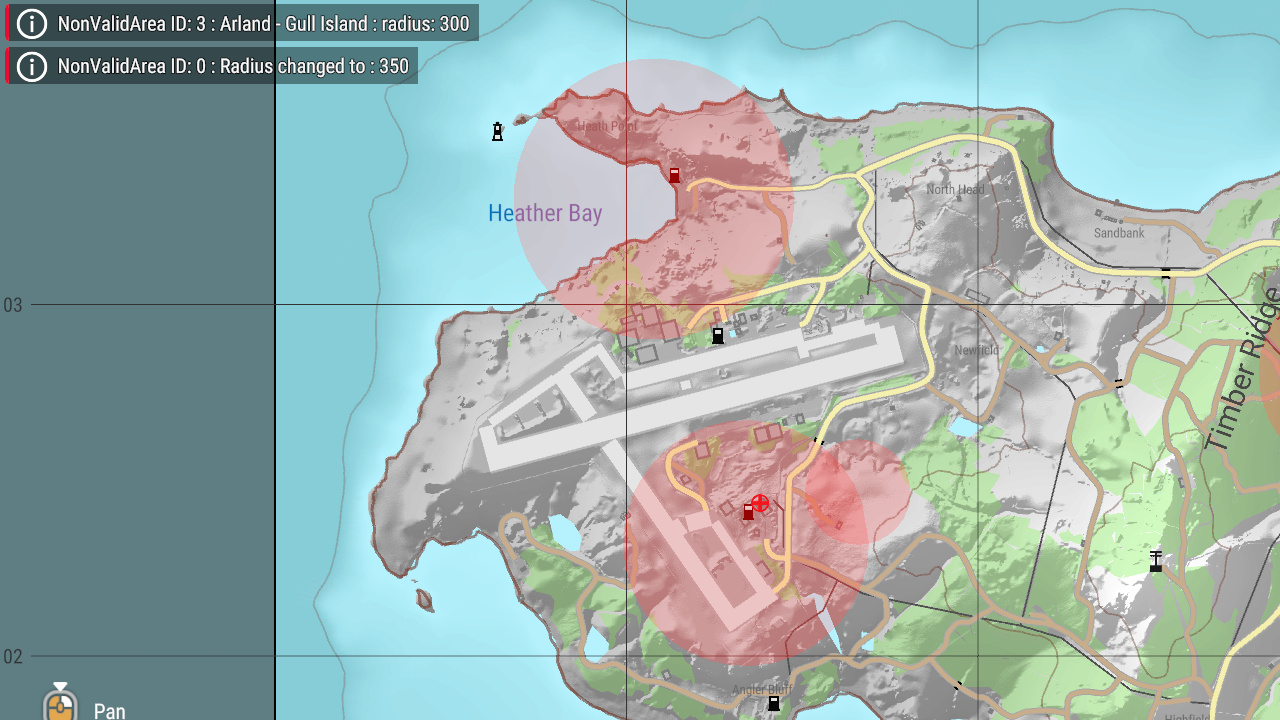
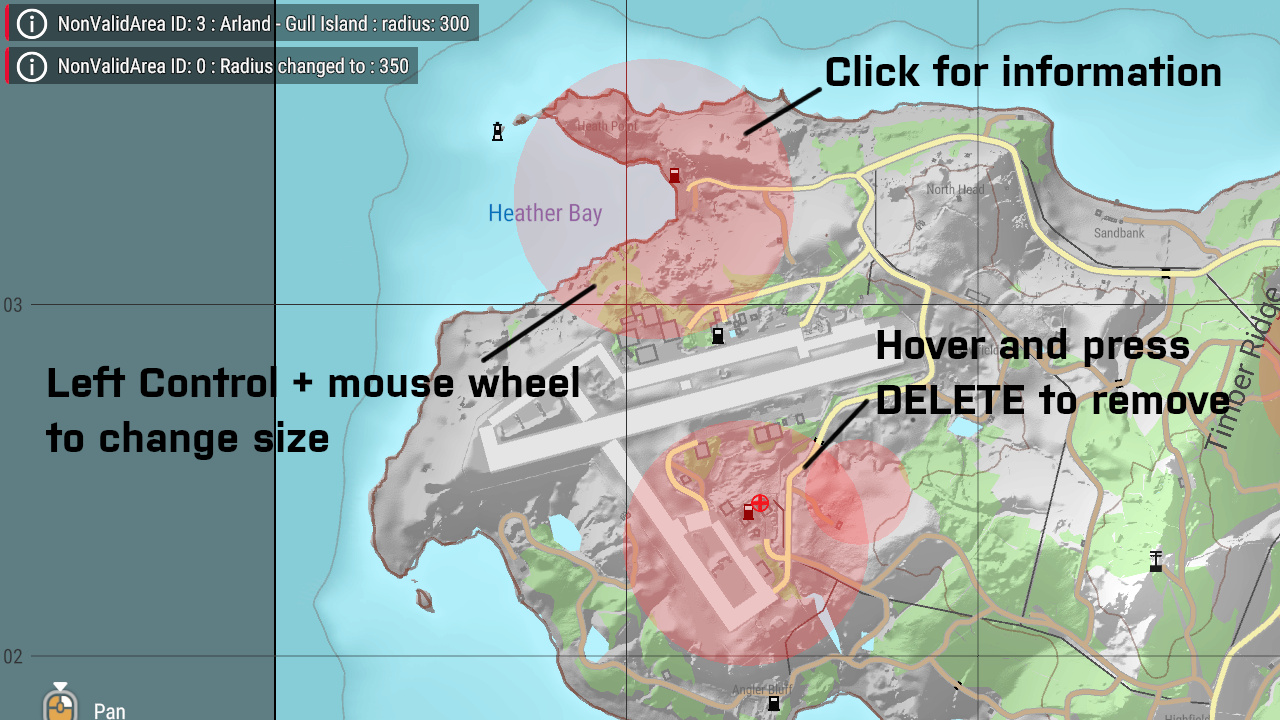
Docs

diff --git a/DarcMissions/docs/GM.md b/DarcMissions/docs/GM.md
@@ -7,8 +7,12 @@ Some mod functionality is available for GM use. In order for this to work correc
 	},
 ```
 
-## Start missions
-From the entity browser, you can drop missions to the world. They will be started after a while. For details on how mission will be spanwed, is described in the different mission type documentation.
+## Drop entities on the map
+From the entity browser, you can drop..
+- Missions to the world. They will be started after a while. For details on how mission will be spawned, is described in the different mission type documentation.
+- NonValidAreas to the world. They will be activated after a while and the icon disappears from the world.
+
+<img src="https://github.com/mokdevel/DarcMods/blob/main/pics/s_gm_entitylist.jpg" width=30% height=30%>
 
 ## Map information
 Map show information about 
@@ -16,5 +20,16 @@ Map show information about
 - Missions that are in ACTIVE state.
 
 ## Map functionality
+
+### Mission markers
 - Click on an icon, to get some intel about the mission
 - Keep cursor on top of the icon and press delete-key. The mission will end and despawn.
+
+### Non Valid Areas
+These are shown as red circles on the map.
+- Click on an icon, to get some intel about the area.
+- Edit the size of a NonValidArea in GM view. Hover on top of the red circle on map. Hold Left Control and use scroll wheel to change size. 
+  - Known issue: You need to re-press Left Control if you change the mouse wheel direction. 
+- You can delete a NonValidArea in GM view. Hover on top of the red circle and press DELETE on keyboard.
+
+<img src="https://github.com/mokdevel/DarcMods/blob/main/pics/s_gm_nva01.jpg" width=30% height=30%>

diff --git a/DarcMissions/docs/VERSION.md b/DarcMissions/docs/VERSION.md
@@ -5,11 +5,17 @@ No changes in mission jsons.
 
 ## Next release (unreleased)
 Changed jsons - remove the files to receive updated ones.
-* dc_enemyConfig.json (Added )
+* dc_enemyConfig.json (Added Japan Self-Defense Forces)
 
 Main features:
-* Refactored the json loading/saving. Better looking jsons and provides capability for error checking. 
+* GM droppable NonValidArea. You can find it in the same place as the missions. 
+  * Note that it uses the same functionality as mission spawn so there is a slight delay before they appear on the map.
+  * You can edit the size of a NonValidArea in GM view. Hover on top of the red circle on map. Hold Left Control and use scroll wheel to change size.
+  * You can delete a NonValidArea in GM view. Hover on top of the red circle and press DELETE on keyboard.
 * Support for Japan Self-Defense Forces. Use ``JSDF_RAS`` as the faction. Mod is still under work so it lacks proper groups and characters.
+
+Changes:
+* ``worldName`` parameter is deprecated in dc_nonValidArea.json. It is still there but not used for anything. To be removed eventually.
 
 ## 20260111
 Changed jsons - remove the files to receive updated ones.

diff --git a/DarcMissions/docs/P_NONVALIDAREAS.md b/DarcMissions/docs/P_NONVALIDAREAS.md
@@ -10,7 +10,7 @@ array<SDRC_NonValidArea> nonValidAreas : List of areas where missions shall not 
 
 ## SDRC_NonValidArea
 ```
-string worldName : The world name this should be affecting. For example Arland or Eden. If left empty, area will be valid for all maps. Note that Arland and GM_Arland are considered different maps.
+string worldName : ** DEPRECATED ** Will be removed in the future but left for compatibility reasons for now.
 vector pos : Center position of area
 float radius : Radius from the center where the missions shall not spawn.
 string name : Your own name for the area. Not used by the mod.
